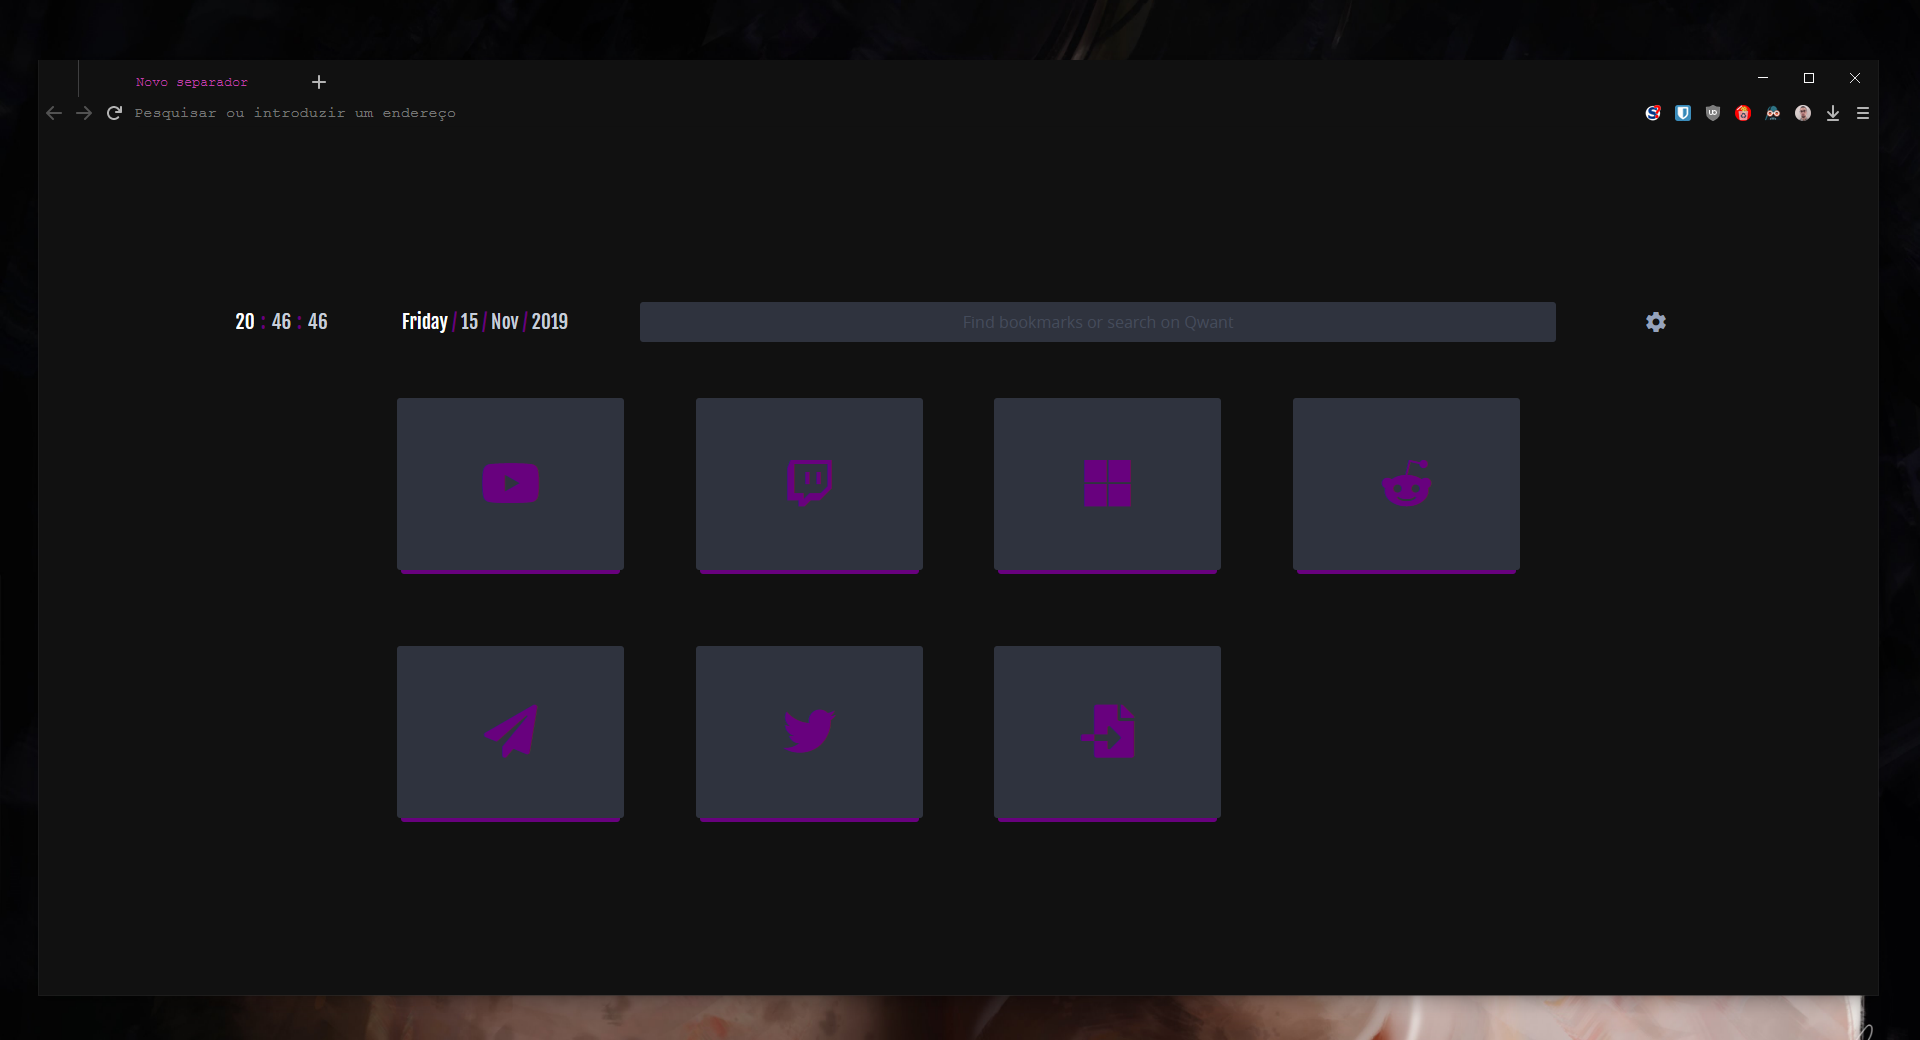
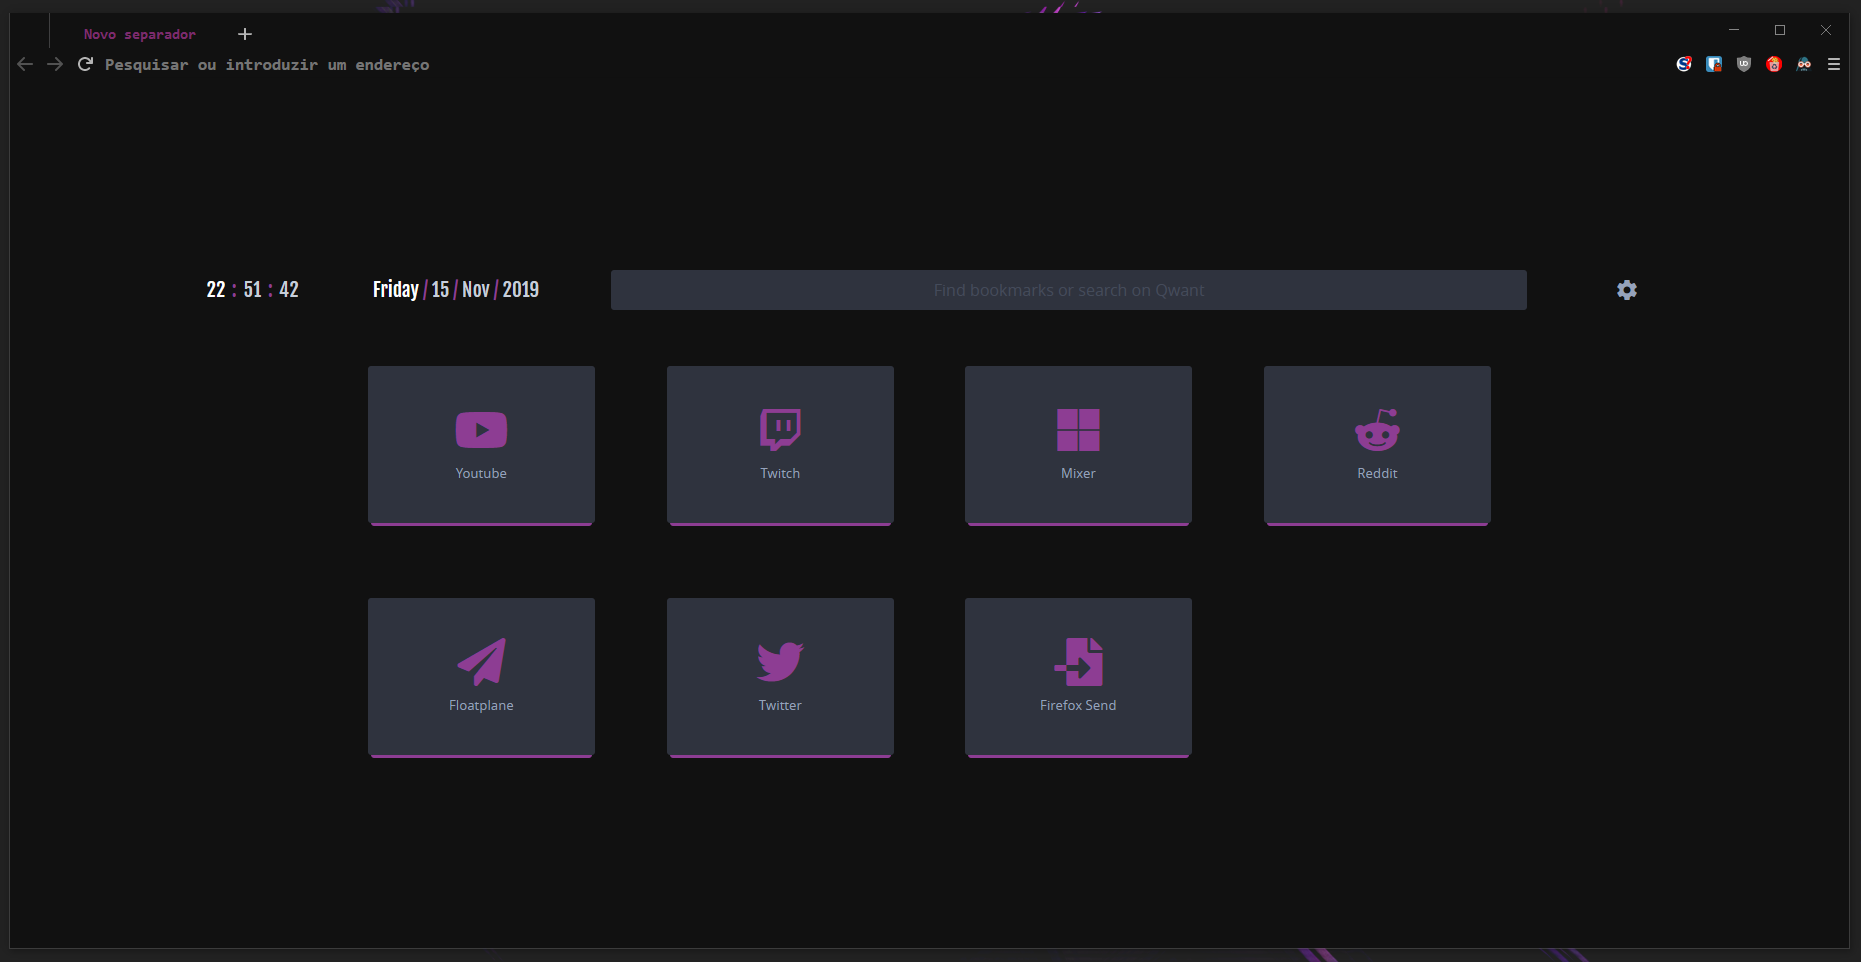
Even more close to the original
This makes fixes and adds somethings

Fixed font not being bold by changed font family - still monospaced.

Tabs are now closer to the top right corner and have different height/width rules.

diff --git a/userChrome.css b/userChrome.css
@@ -87,9 +87,9 @@ toolbar,
 tab,
 tree,
 .tree-rows {
-    font-family: 'Input Condensed', monospace !important;
-    font-size: 10pt !important;
-    font-weight: normal;
+    font-family: 'Consolas', monospace !important;
+    font-size: 11pt !important;
+    font-weight: bold;
     font-style: normal !important;
     -moz-appearance: none !important;
     color: var(--color7) !important;
@@ -134,8 +134,8 @@ tree,
 .urlbarView:not(.megabar) {
     box-shadow: none !important;
     background-color: #111111 !important;
-    font-family: 'Input Condensed', monospace !important;
-    font-size: 10pt !important;
+    font-family: 'Consolas', monospace !important;
+    font-size: 11pt !important;
 }
 
 .urlbarView-favicon {
@@ -157,20 +157,23 @@ tree,
 .customization-target {
     padding: 0px !important;   
 }
-    
-    
-    
-    
-    
-    
-    
-    
-    
-    
-    
-    
-    
-    
-    
-    
+
+.tabbrowser-tab[first-visible-tab]::before{
+  content: "";
+  display: -moz-box;
+  border-left: -1px !important;
+  margin: 0 !important;
+  opacity: 0.3;
+ }
+.tabbrowser-tab[fadein]:not([pinned]) {
+    max-width: 180px !important;
+ }
+#tabbrowser-tabs {
+  --tab-min-height: 24px !important;
+  margin-left: 0px !important;
+  height: 27px !important;
+ }
+
+
+
     

diff --git a/README.md b/README.md
@@ -3,37 +3,36 @@ minimal userChrome.css Windows frendly version
 
 Hi everyone, 
 
-This is my modified version from https://github.com/turing753/myuserchrome. 
+This is my modified version of https://github.com/turing753/myuserchrome minimal user minimal userChrome.css.
 
-This version aims to be a bit more Microsoft Windows friendly while still perseving as much as possible the original look. 
+The objective of this version is to be a bit more Microsoft Windows friendly while still perseving as much as possible the original look. 
 
 ![alt text](https://raw.githubusercontent.com/Cl3m3nt1n4/myuserchrome/master/readme%20content/print0.png)
 
 ![alt text](https://raw.githubusercontent.com/Cl3m3nt1n4/myuserchrome/master/readme%20content/print1.png)
 
 
-The modifications made include:
+Some of modifications/ideas of this version are:
 
-Whats changed:
+What is changed:
 
-+ Changed Font Weight.
++ Added thin scroll bar instead of the originally being hidden.
 
-+ Added a thin scroll bar instead of the original hidden one.
++ Change some padding to make it look more natural on windows. 
 
-+ Change some padding to make it as small as possible footprint but having a normal looking size on Windows. 
++ Changed Font Family in order to get the bold monospace look like the original. Changed font size as well
 
-+ Changed Font Size to be smaller.
++ Inverted the URL Barl / Tab bar order due the Windows minimize/maximize/close being not at the corner of the program.
 
-+ Inverted the URL Barl / Tab bar order due the Windows minimize/maximize/close being not at the corner of the program. 
++ Tabs start now closer to the top right corner and have different height and width rules.
 
 Problems to be fixed: 
 
-+ When on windowed mode at the top left appear a white
- line. 
-+ Font doesn't have a bold look like the original. 
-
-+ Some padding doesn't look natural on Windows still. 
++ When on windowed mode at the top left appears a white line. 
 
 Possible future changes: 
 
-+ Removing http/https from the link (making just a lock) to look more minimal.
++ Removing http/https to make links loke more simple (similar to Chrome aproach).
+
+
+
